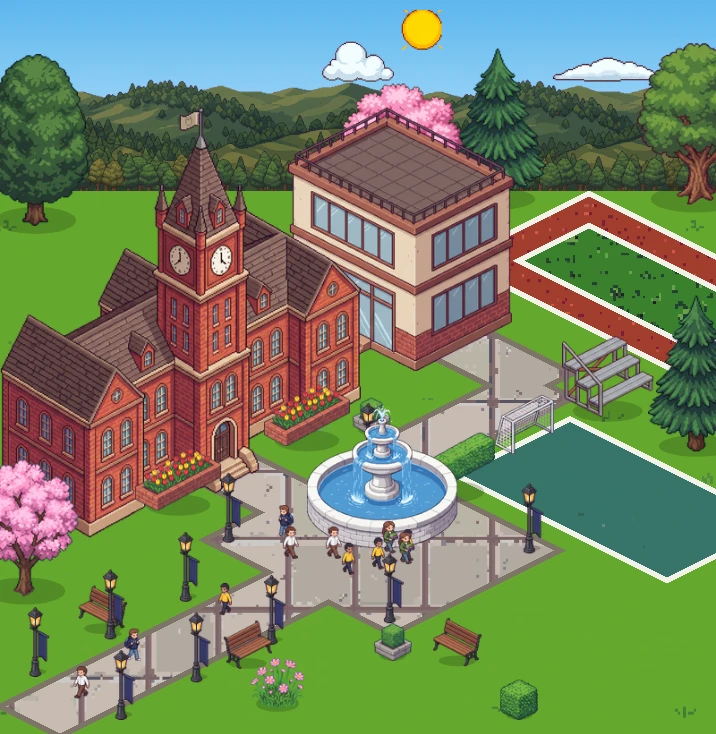
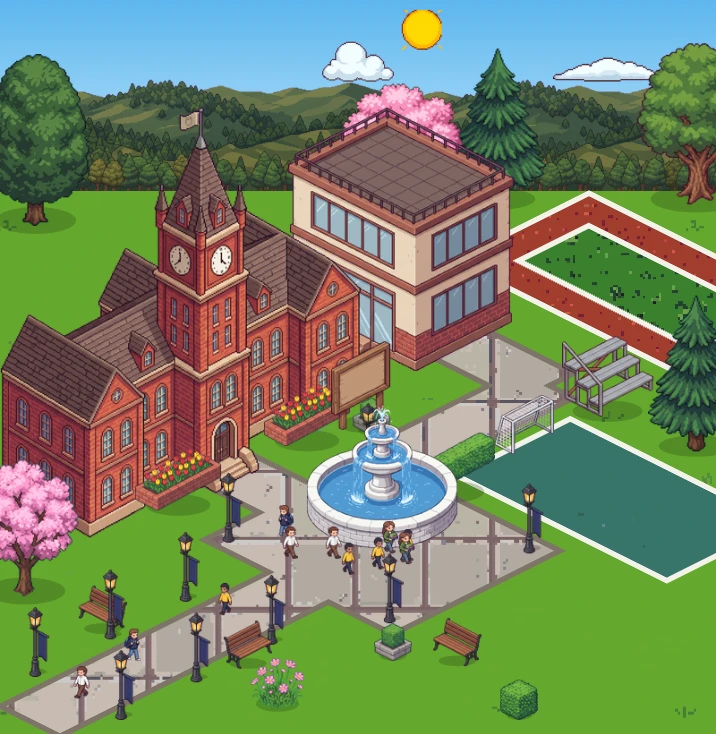
feat: 학교 Lv.8 배경 수정

Changed region(s): [[0.4609, 0.4496, 0.5531, 0.5995]]

diff --git a/frontend/src/data/campusLayouts.ts b/frontend/src/data/campusLayouts.ts
@@ -438,23 +438,25 @@ export const CAMPUS_LAYOUTS: Readonly<Partial<Record<number, CampusLayout>>> = {
     ],
     items: [
       lv8Main, lv8Hall,
-      at('fountain', lv8Plaza),
+      at('fountain', iso(lv8Plaza, 10, 15)),
       ...[[-30, -26], [30, -26], [-30, 26], [30, 26]].map(([u, v]) => at('lamp-banner', iso(lv8Plaza, u, v))),
       // Banner lamps and benches down both sides of the south walk (growth sheet).
       ...along(iso(lv8Plaza, 0, 56), iso(lv8Plaza, 0, 112), 3).flatMap((p) => [at('lamp-banner', iso(p, -16)), at('lamp-banner', iso(p, 16))]),
-      at('bench', iso(lv8Plaza, -20, 84), { flip: true }), at('bench', iso(lv8Plaza, 20, 70)),
+      at('bench', iso(lv8Plaza, -15, 70)),
       // One goal on the near end line (the sprite opens toward +U only; user request 2026-11-09); the
       // bleacher's rows run along the court's long side, facing it.
       at('goal-post', iso(lv8Court, -35), { shadow: false }),
-      at('bleacher', iso(lv8Court, -34, -30), { flip: true }),
+      at('bleacher', iso(lv8Court, -34, -35), { flip: true }),
       // Garden fill (F11): planters at the square's corners and along the hall's entrance wall, low
       // hedges along the walk to the track.
-      ...[[-44, -40], [44, 40]].map(([u, v]) => at('planter-square', iso(lv8Plaza, u, v))),
-      at('hedge-low', iso(lv8Plaza, -6, -32)),
-      ...[-24, 24].map((v) => at('planter-strip', iso(lv8Door, 6, v), { depth: lv8Main.y + 1 })),
+      ...[[-44, -70], [20, 40]].map(([u, v]) => at('planter-square', iso(lv8Plaza, u, v))),
+      ...[35].map((v) => at('planter-strip', iso(lv8Door, 20, v), { depth: lv8Main.y + 1 })),
+      // The school signboard stands at the right end of the main hall's entrance wall, facing the way the hall does
+      // (door on the right face, so unflipped) and drawn over it, as on Lv.7 (user request 2026-11-27).
+      at('signboard', iso(lv8Door, 12, -18), { depth: lv8Main.y + 1 }),
       ...[P(60, 112), P(196, 110), P(232, 104), P(306, 104)].map((p, i) => at((['tree-oak-2', 'tree-cherry-1', 'tree-pine', 'tree-oak-1'] as const)[i], p, { flip: i % 2 === 0 })),
-      at('tree-cherry-2', P(56, 250)), at('tree-pine', P(306, 196)), at('bench', iso(lv8Plaza, 58, 30), { flip: true }),
-      ...crowd(lv8Plaza, 30, 26, 8, 5), ...crowd(iso(lv8Plaza, 0, 80), 6, 40, 3, 6),
+      at('tree-cherry-2', P(56, 250)), at('tree-pine', P(306, 196)),
+      ...crowd(lv8Plaza, 60, -50, 2, 4), ...crowd(iso(lv8Plaza, 0, 80), 6, 40, 3, 6),
       ...scatter([P(150, 292), P(240, 296), P(90, 160)], 7),
     ],
     features: { '분수광장': 'fountain', '스포츠 코트': 'tex-court', '학교 배너': 'lamp-banner' },

diff --git a/frontend/tests/campusScene.test.ts b/frontend/tests/campusScene.test.ts
@@ -484,14 +484,16 @@ test('Lv.4·5·6도 Lv.3처럼 학교 표지판 하나가 정해진 방향으로
   }
 });
 
-test('Lv.7 학교 표지판은 강의동 입구 옆에서 강의동과 같은 방향을 보고 강의동보다 앞에 그려진다', () => {
-  const layout = CAMPUS_LAYOUTS[7]!;
-  const hall = layout.items.find((i) => i.asset === 'lecture-2-r')!;
-  const signs = layout.items.filter((i) => i.asset === 'signboard' || i.asset === 'notice-board');
-  assert.deepEqual(signs.map((i) => i.asset), ['signboard'], 'Lv.7 has exactly one sign, the signboard');
-  // The lecture hall's door is on its right face, so the board runs along V, unflipped.
-  assert.equal(signs[0].flip, undefined);
-  assert.ok((signs[0].depth ?? signs[0].y) > hall.y, 'the signboard is drawn in front of the lecture hall');
+test('Lv.7·8 학교 표지판은 입구가 오른쪽 면인 학교 건물 앞에서 같은 방향을 보고 그 건물보다 앞에 그려진다', () => {
+  for (const [level, building] of [[7, 'lecture-2-r'], [8, 'main-clocktower']] as const) {
+    const layout = CAMPUS_LAYOUTS[level]!;
+    const hall = layout.items.find((i) => i.asset === building)!;
+    const signs = layout.items.filter((i) => i.asset === 'signboard' || i.asset === 'notice-board');
+    assert.deepEqual(signs.map((i) => i.asset), ['signboard'], `Lv.${level} has exactly one sign, the signboard`);
+    // The door is on the right face, so the board runs along V, unflipped.
+    assert.equal(signs[0].flip, undefined, `Lv.${level}: the board runs parallel to the door face`);
+    assert.ok((signs[0].depth ?? signs[0].y) > hall.y, `Lv.${level}: the signboard is drawn in front of ${building}`);
+  }
 });
 
 test('visiting screens show the visited school scene at its score-derived level', async () => {
